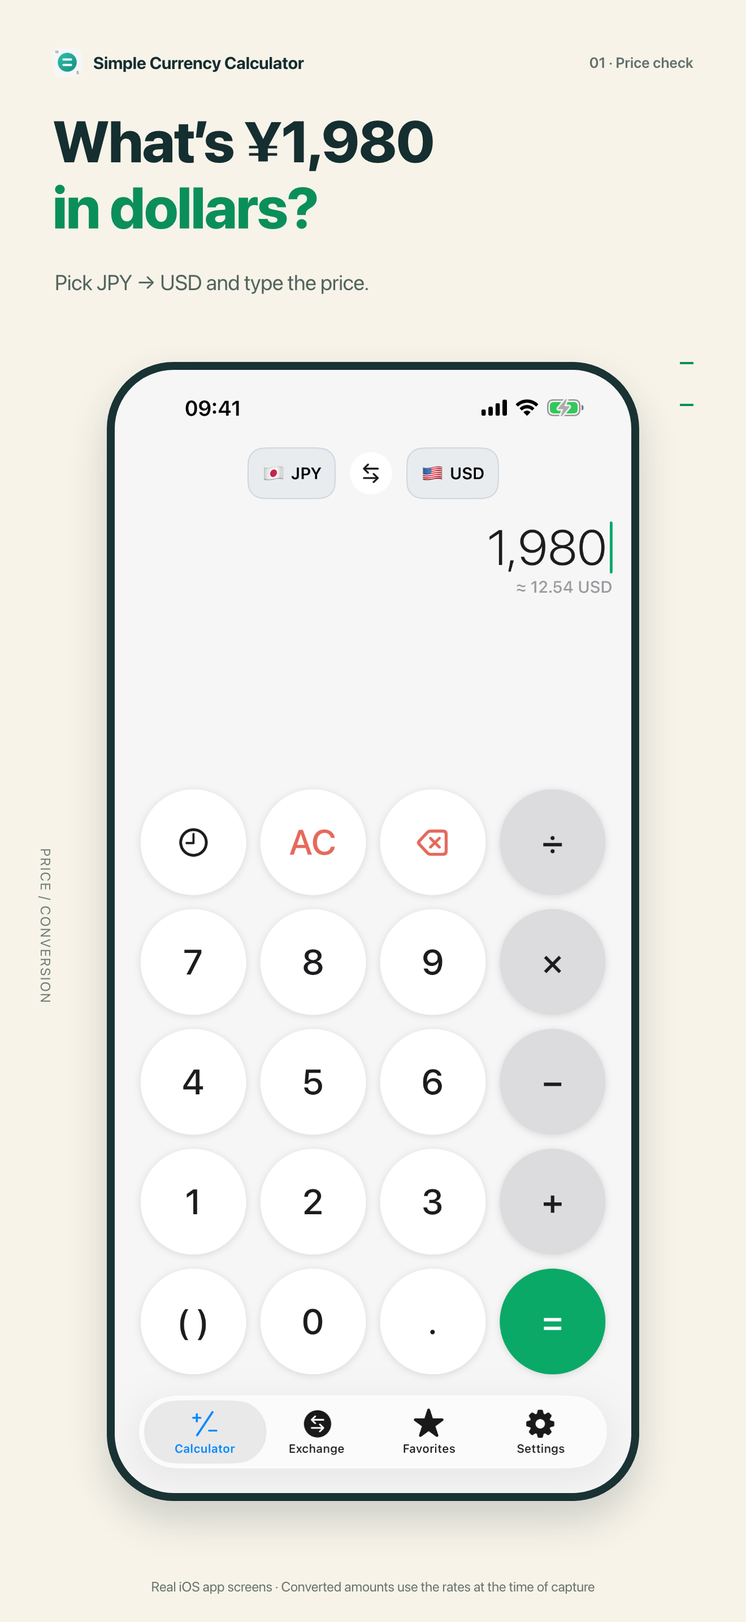
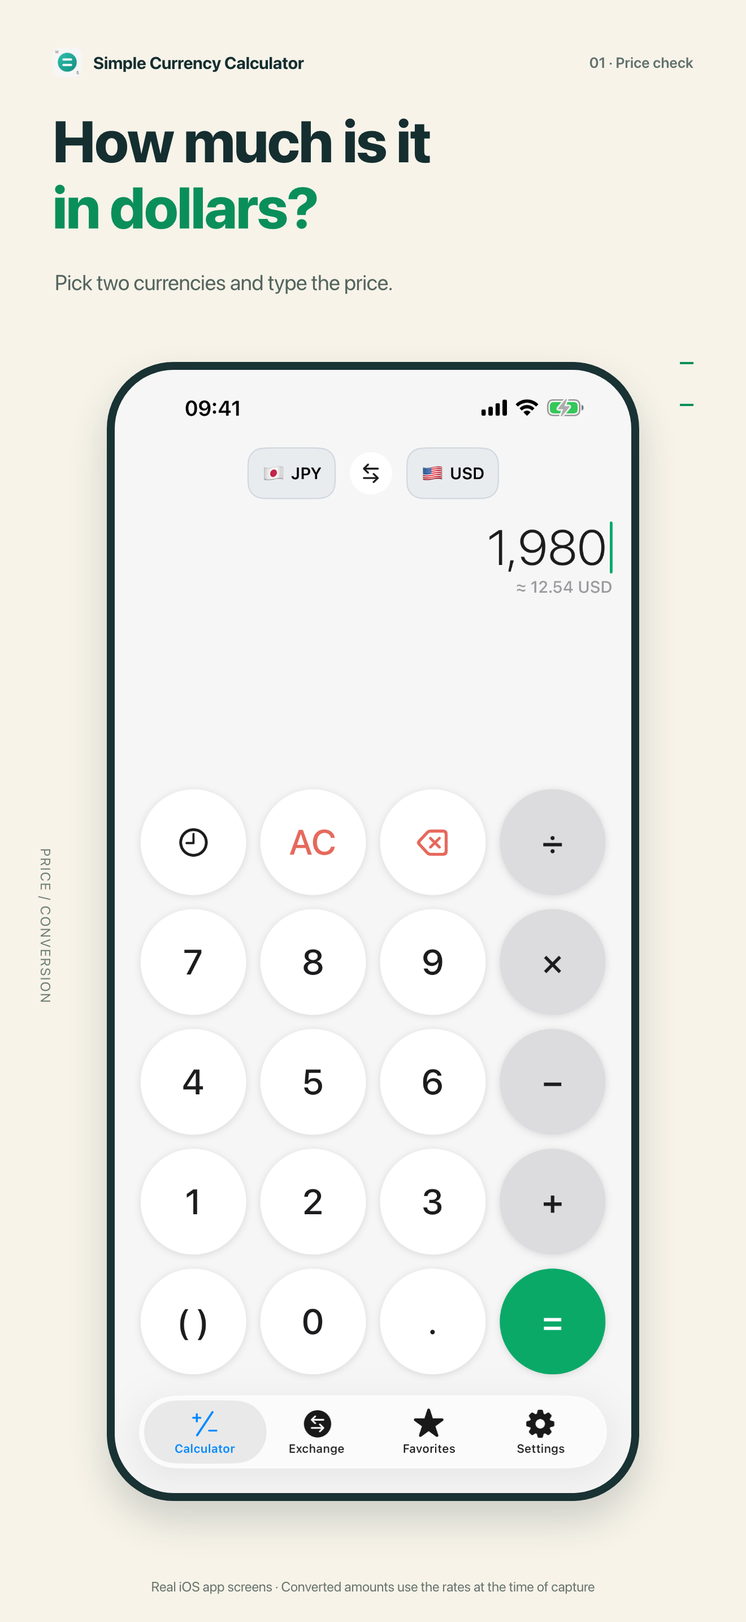
영어 Play 여행 세트를 만들고 스토어 문구에서 엔화·할인 강조를 뺀다
- 영어 Play용 여행 세트(travel-en-20261029)를 만든다. 01~03은 Note20에서 앱 언어만
  영어로 바꿔 JPY→USD로 새로 찍었고, en/05-offline은 04-offline으로 옮긴다.
- 영어 01 제목을 "What's ¥1,980 in dollars?"에서 "How much is it in dollars?"로 바꿔
  일본 여행 앱처럼 보이지 않게 한다(Play·App Store iPhone·iPad).
- 할인 계산 기능이 따로 있는 것처럼 읽히는 02 문구를 "환산되는 계산기"로 바꾼다
  (한국어·영어, Play·App Store). 등록 문구·피처 그래픽·소개 문구의 할인 예시도
  계산식 예시로 바꾼다.
- App Store 등록 문구에 남아 있던 조건 없는 오프라인 표현을 Play와 같이
  "환율을 한 번 받아 두면"으로 고치고, 기준일 표시 범위를 실제 화면으로 좁힌다.

Changed region(s): [[0.0621, 0.0621, 0.5902, 0.1241], [0.1242, 0.1552, 0.497, 0.1862]]

diff --git a/store-assets/travel-ko-20261022/02-shopping-discount.html b/store-assets/travel-ko-20261022/02-shopping-discount.html
@@ -1,1 +1,1 @@
-<!DOCTYPE html><html lang="ko"><meta charset="utf-8"><title>심플 환율 계산기 · 02 · 여행 쇼핑</title><style>*{box-sizing:border-box}html,body{margin:0;padding:0}body{font-family:"Apple SD Gothic Neo","Arial",sans-serif;color:#152e30;background:#f7f3e9;-webkit-font-smoothing:antialiased}.artboard{position:relative;width:1080px;height:1920px;overflow:hidden;background:#f7f3e9}.brand{position:absolute;left:76px;top:60px;display:flex;align-items:center;gap:16px;font-size:24px;font-weight:700;letter-spacing:-.4px}.brand img{width:42px;height:42px;object-fit:contain;border-radius:10px}.episode{position:absolute;right:76px;top:69px;font-size:21px;font-weight:600;color:#61706d}.headline{position:absolute;left:76px;top:145px;margin:0;font-size:88px;line-height:1.14;letter-spacing:-4.2px;font-weight:800}.headline em{font-style:normal;color:#d85525}.subhead{position:absolute;left:80px;right:65px;top:366px;font-size:30px;line-height:1.5;letter-spacing:-.6px;color:#53645e;margin:0}.phone{position:absolute;top:484px;left:226px;width:628px;padding:10px;background:#193233;border-radius:43px;box-shadow:0 28px 56px rgba(21,46,48,.18)}.phone img{display:block;width:608px;height:auto;border-radius:33px}.footer{position:absolute;left:0;right:0;bottom:22px;text-align:center;font-size:19px;color:#68746d;letter-spacing:-.2px}.note{position:absolute;left:65px;top:928px;writing-mode:vertical-rl;letter-spacing:2.4px;font-size:20px;color:#6f7e75}.note span{color:#d85525;font-weight:800}.index-mark{position:absolute;right:76px;top:484px;width:20px;height:64px;border-top:3px solid #d85525;border-bottom:3px solid #d85525}.feature{position:relative;width:1024px;height:500px;overflow:hidden;background:#f7f3e9}.feature .brand{top:43px;left:53px;font-size:21px}.feature .brand img{width:35px;height:35px}.feature h1{position:absolute;top:135px;left:53px;font-size:60px;line-height:1.18;letter-spacing:-3px;margin:0;font-weight:800}.feature h1 em{font-style:normal;color:#d85525}.feature p{position:absolute;left:57px;top:305px;font-size:24px;letter-spacing:-.5px;color:#53645e;line-height:1.5}.feature-phone{position:absolute;width:277px;padding:7px;background:#193233;top:38px;right:64px;border-radius:29px;transform:rotate(5deg);box-shadow:0 20px 35px #19323320}.feature-phone img{width:263px;display:block;border-radius:22px}.feature .mini{position:absolute;bottom:27px;left:57px;font-size:17px;color:#68746d}</style><main class="artboard"><div class="brand"><img src="app-icon.png" alt="">심플 환율 계산기</div><div class="episode">02 · 여행 쇼핑</div><h1 class="headline">합계도, 할인도.<br><em>계산하면서 환산.</em></h1><p class="subhead">두 물건에 20% 할인: (1,980 + 2,480) × 0.8</p><div class="note">SHOPPING / CALCULATION</div><div class="index-mark"></div><div class="phone"><img src="raw/02-discount-result.png" alt="실제 Android 앱 화면"></div><div class="footer">실제 Android 앱 화면 · 환산 금액은 촬영 당시 환율 기준</div></main></html>
+<!DOCTYPE html><html lang="ko"><meta charset="utf-8"><title>심플 환율 계산기 · 02 · 계산기</title><style>*{box-sizing:border-box}html,body{margin:0;padding:0}body{font-family:"Apple SD Gothic Neo","Arial",sans-serif;color:#152e30;background:#f7f3e9;-webkit-font-smoothing:antialiased}.artboard{position:relative;width:1080px;height:1920px;overflow:hidden;background:#f7f3e9}.brand{position:absolute;left:76px;top:60px;display:flex;align-items:center;gap:16px;font-size:24px;font-weight:700;letter-spacing:-.4px}.brand img{width:42px;height:42px;object-fit:contain;border-radius:10px}.episode{position:absolute;right:76px;top:69px;font-size:21px;font-weight:600;color:#61706d}.headline{position:absolute;left:76px;top:145px;margin:0;font-size:88px;line-height:1.14;letter-spacing:-4.2px;font-weight:800}.headline em{font-style:normal;color:#d85525}.subhead{position:absolute;left:80px;right:65px;top:366px;font-size:30px;line-height:1.5;letter-spacing:-.6px;color:#53645e;margin:0}.phone{position:absolute;top:484px;left:226px;width:628px;padding:10px;background:#193233;border-radius:43px;box-shadow:0 28px 56px rgba(21,46,48,.18)}.phone img{display:block;width:608px;height:auto;border-radius:33px}.footer{position:absolute;left:0;right:0;bottom:22px;text-align:center;font-size:19px;color:#68746d;letter-spacing:-.2px}.note{position:absolute;left:65px;top:928px;writing-mode:vertical-rl;letter-spacing:2.4px;font-size:20px;color:#6f7e75}.note span{color:#d85525;font-weight:800}.index-mark{position:absolute;right:76px;top:484px;width:20px;height:64px;border-top:3px solid #d85525;border-bottom:3px solid #d85525}.feature{position:relative;width:1024px;height:500px;overflow:hidden;background:#f7f3e9}.feature .brand{top:43px;left:53px;font-size:21px}.feature .brand img{width:35px;height:35px}.feature h1{position:absolute;top:135px;left:53px;font-size:60px;line-height:1.18;letter-spacing:-3px;margin:0;font-weight:800}.feature h1 em{font-style:normal;color:#d85525}.feature p{position:absolute;left:57px;top:305px;font-size:24px;letter-spacing:-.5px;color:#53645e;line-height:1.5}.feature-phone{position:absolute;width:277px;padding:7px;background:#193233;top:38px;right:64px;border-radius:29px;transform:rotate(5deg);box-shadow:0 20px 35px #19323320}.feature-phone img{width:263px;display:block;border-radius:22px}.feature .mini{position:absolute;bottom:27px;left:57px;font-size:17px;color:#68746d}</style><main class="artboard"><div class="brand"><img src="app-icon.png" alt="">심플 환율 계산기</div><div class="episode">02 · 계산기</div><h1 class="headline">계산하는 대로,<br><em>바로 환산.</em></h1><p class="subhead">어떤 계산식이든 결과를 다른 통화로 함께 보여 줘요.</p><div class="note">CALCULATOR / CONVERSION</div><div class="index-mark"></div><div class="phone"><img src="raw/02-discount-result.png" alt="실제 Android 앱 화면"></div><div class="footer">실제 Android 앱 화면 · 환산 금액은 촬영 당시 환율 기준</div></main></html>

diff --git a/store-assets/travel-ko-20261022/feature-graphic-ko.html b/store-assets/travel-ko-20261022/feature-graphic-ko.html
@@ -1,1 +1,1 @@
-<!DOCTYPE html><html lang="ko"><meta charset="utf-8"><title>심플 환율 계산기 · 여행</title><style>*{box-sizing:border-box}html,body{margin:0;padding:0}body{font-family:"Apple SD Gothic Neo","Arial",sans-serif;color:#152e30;background:#f7f3e9;-webkit-font-smoothing:antialiased}.artboard{position:relative;width:1080px;height:1920px;overflow:hidden;background:#f7f3e9}.brand{position:absolute;left:76px;top:60px;display:flex;align-items:center;gap:16px;font-size:24px;font-weight:700;letter-spacing:-.4px}.brand img{width:42px;height:42px;object-fit:contain;border-radius:10px}.episode{position:absolute;right:76px;top:69px;font-size:21px;font-weight:600;color:#61706d}.headline{position:absolute;left:76px;top:145px;margin:0;font-size:88px;line-height:1.14;letter-spacing:-4.2px;font-weight:800}.headline em{font-style:normal;color:#d85525}.subhead{position:absolute;left:80px;right:65px;top:366px;font-size:30px;line-height:1.5;letter-spacing:-.6px;color:#53645e;margin:0}.phone{position:absolute;top:484px;left:226px;width:628px;padding:10px;background:#193233;border-radius:43px;box-shadow:0 28px 56px rgba(21,46,48,.18)}.phone img{display:block;width:608px;height:auto;border-radius:33px}.footer{position:absolute;left:0;right:0;bottom:22px;text-align:center;font-size:19px;color:#68746d;letter-spacing:-.2px}.note{position:absolute;left:65px;top:928px;writing-mode:vertical-rl;letter-spacing:2.4px;font-size:20px;color:#6f7e75}.note span{color:#d85525;font-weight:800}.index-mark{position:absolute;right:76px;top:484px;width:20px;height:64px;border-top:3px solid #d85525;border-bottom:3px solid #d85525}.feature{position:relative;width:1024px;height:500px;overflow:hidden;background:#f7f3e9}.feature .brand{top:43px;left:53px;font-size:21px}.feature .brand img{width:35px;height:35px}.feature h1{position:absolute;top:135px;left:53px;font-size:60px;line-height:1.18;letter-spacing:-3px;margin:0;font-weight:800}.feature h1 em{font-style:normal;color:#d85525}.feature p{position:absolute;left:57px;top:305px;font-size:24px;letter-spacing:-.5px;color:#53645e;line-height:1.5}.feature-phone{position:absolute;width:277px;padding:7px;background:#193233;top:38px;right:64px;border-radius:29px;transform:rotate(5deg);box-shadow:0 20px 35px #19323320}.feature-phone img{width:263px;display:block;border-radius:22px}.feature .mini{position:absolute;bottom:27px;left:57px;font-size:17px;color:#68746d}</style><main class="feature"><div class="brand"><img src="app-icon.png" alt="">심플 환율 계산기</div><h1>여행지 가격,<br><em>계산하면서 원화로.</em></h1><p>물건값을 더하고 할인까지.<br>환산 금액도 함께 확인하세요.</p><div class="feature-phone"><img src="raw/01-price.png" alt="실제 Android 앱 화면"></div><div class="mini">JPY · USD · EUR 등 160여 개 통화 지원</div></main></html>
+<!DOCTYPE html><html lang="ko"><meta charset="utf-8"><title>심플 환율 계산기 · 여행</title><style>*{box-sizing:border-box}html,body{margin:0;padding:0}body{font-family:"Apple SD Gothic Neo","Arial",sans-serif;color:#152e30;background:#f7f3e9;-webkit-font-smoothing:antialiased}.artboard{position:relative;width:1080px;height:1920px;overflow:hidden;background:#f7f3e9}.brand{position:absolute;left:76px;top:60px;display:flex;align-items:center;gap:16px;font-size:24px;font-weight:700;letter-spacing:-.4px}.brand img{width:42px;height:42px;object-fit:contain;border-radius:10px}.episode{position:absolute;right:76px;top:69px;font-size:21px;font-weight:600;color:#61706d}.headline{position:absolute;left:76px;top:145px;margin:0;font-size:88px;line-height:1.14;letter-spacing:-4.2px;font-weight:800}.headline em{font-style:normal;color:#d85525}.subhead{position:absolute;left:80px;right:65px;top:366px;font-size:30px;line-height:1.5;letter-spacing:-.6px;color:#53645e;margin:0}.phone{position:absolute;top:484px;left:226px;width:628px;padding:10px;background:#193233;border-radius:43px;box-shadow:0 28px 56px rgba(21,46,48,.18)}.phone img{display:block;width:608px;height:auto;border-radius:33px}.footer{position:absolute;left:0;right:0;bottom:22px;text-align:center;font-size:19px;color:#68746d;letter-spacing:-.2px}.note{position:absolute;left:65px;top:928px;writing-mode:vertical-rl;letter-spacing:2.4px;font-size:20px;color:#6f7e75}.note span{color:#d85525;font-weight:800}.index-mark{position:absolute;right:76px;top:484px;width:20px;height:64px;border-top:3px solid #d85525;border-bottom:3px solid #d85525}.feature{position:relative;width:1024px;height:500px;overflow:hidden;background:#f7f3e9}.feature .brand{top:43px;left:53px;font-size:21px}.feature .brand img{width:35px;height:35px}.feature h1{position:absolute;top:135px;left:53px;font-size:60px;line-height:1.18;letter-spacing:-3px;margin:0;font-weight:800}.feature h1 em{font-style:normal;color:#d85525}.feature p{position:absolute;left:57px;top:305px;font-size:24px;letter-spacing:-.5px;color:#53645e;line-height:1.5}.feature-phone{position:absolute;width:277px;padding:7px;background:#193233;top:38px;right:64px;border-radius:29px;transform:rotate(5deg);box-shadow:0 20px 35px #19323320}.feature-phone img{width:263px;display:block;border-radius:22px}.feature .mini{position:absolute;bottom:27px;left:57px;font-size:17px;color:#68746d}</style><main class="feature"><div class="brand"><img src="app-icon.png" alt="">심플 환율 계산기</div><h1>여행지 가격,<br><em>계산하면서 원화로.</em></h1><p>물건값을 계산하면<br>환산 금액도 함께 확인할 수 있어요.</p><div class="feature-phone"><img src="raw/01-price.png" alt="실제 Android 앱 화면"></div><div class="mini">JPY · USD · EUR 등 160여 개 통화 지원</div></main></html>

diff --git a/store-assets/travel-en-20261029/04-offline.html b/store-assets/travel-en-20261029/04-offline.html
@@ -1,0 +1,1 @@
+<!DOCTYPE html><html lang="en"><meta charset="utf-8"><title>Simple Currency Calculator · 04 · Offline</title><style>*{box-sizing:border-box}html,body{margin:0;padding:0}body{font-family:system-ui,"Helvetica Neue",Arial,sans-serif;color:#152e30;background:#f7f3e9;-webkit-font-smoothing:antialiased}.artboard{position:relative;width:1080px;height:1920px;overflow:hidden;background:#f7f3e9}.brand{position:absolute;left:76px;top:60px;display:flex;align-items:center;gap:16px;font-size:24px;font-weight:700;letter-spacing:-.4px}.brand img{width:42px;height:42px;object-fit:contain;border-radius:10px}.episode{position:absolute;right:76px;top:69px;font-size:21px;font-weight:600;color:#61706d}.headline{position:absolute;left:76px;top:145px;margin:0;font-size:84px;line-height:1.14;letter-spacing:-1.8px;font-weight:800}.headline em{font-style:normal;color:#d85525}.subhead{position:absolute;left:80px;right:65px;top:366px;font-size:30px;line-height:1.5;letter-spacing:-.6px;color:#53645e;margin:0}.phone{position:absolute;top:484px;left:226px;width:628px;padding:10px;background:#193233;border-radius:43px;box-shadow:0 28px 56px rgba(21,46,48,.18)}.phone img{display:block;width:608px;height:auto;border-radius:33px}.footer{position:absolute;left:0;right:0;bottom:22px;text-align:center;font-size:19px;color:#68746d;letter-spacing:-.2px}.note{position:absolute;left:65px;top:928px;writing-mode:vertical-rl;letter-spacing:2.4px;font-size:20px;color:#6f7e75}.note span{color:#d85525;font-weight:800}.index-mark{position:absolute;right:76px;top:484px;width:20px;height:64px;border-top:3px solid #d85525;border-bottom:3px solid #d85525}.feature{position:relative;width:1024px;height:500px;overflow:hidden;background:#f7f3e9}.feature .brand{top:43px;left:53px;font-size:21px}.feature .brand img{width:35px;height:35px}.feature h1{position:absolute;top:135px;left:53px;font-size:60px;line-height:1.18;letter-spacing:-3px;margin:0;font-weight:800}.feature h1 em{font-style:normal;color:#d85525}.feature p{position:absolute;left:57px;top:305px;font-size:24px;letter-spacing:-.5px;color:#53645e;line-height:1.5}.feature-phone{position:absolute;width:277px;padding:7px;background:#193233;top:38px;right:64px;border-radius:29px;transform:rotate(5deg);box-shadow:0 20px 35px #19323320}.feature-phone img{width:263px;display:block;border-radius:22px}.feature .mini{position:absolute;bottom:27px;left:57px;font-size:17px;color:#68746d}.airplane{position:absolute;right:226px;top:420px;display:flex;align-items:center;gap:10px;height:48px;padding:0 22px 0 18px;border-radius:24px;background:#d85525;color:#fff;font-size:24px;font-weight:700;letter-spacing:-.4px;box-shadow:0 8px 18px rgba(216,85,37,.25)}.airplane svg{width:26px;height:26px;fill:#fff}.airplane-line{position:absolute;left:728px;top:468px;width:3px;height:39px;background:#d85525}.airplane-ring{position:absolute;left:712px;top:507px;width:34px;height:34px;border:3px solid #d85525;border-radius:50%}</style><main class="artboard"><div class="brand"><img src="app-icon.png" alt="">Simple Currency Calculator</div><div class="episode">04 · Offline</div><h1 class="headline">Airplane mode?<br><em>Still converts.</em></h1><p class="subhead">Open it once before you fly, then convert offline.</p><div class="note">OFFLINE / SAVED RATES</div><div class="index-mark"></div><div class="phone"><img src="raw/04-offline.png" alt="Real Android app screen"></div><div class="airplane"><svg viewBox="0 0 24 24" aria-hidden="true"><path d="M21 16v-2l-8-5V3.5c0-.83-.67-1.5-1.5-1.5S10 2.67 10 3.5V9l-8 5v2l8-2.5V19l-2 1.5V22l3.5-1 3.5 1v-1.5L13 19v-5.5l8 2.5z"/></svg>Airplane mode</div><div class="airplane-line"></div><div class="airplane-ring"></div><div class="footer">Real Android app screen · Captured in airplane mode · Uses the last downloaded rates</div></main></html>

diff --git a/store-assets/travel-ko-20261022/preview.html b/store-assets/travel-ko-20261022/preview.html
@@ -1,1 +1,1 @@
-<!DOCTYPE html><html lang="ko"><meta charset="utf-8"><title>심플 환율 계산기 · 여행 스토어 시안</title><style>*{box-sizing:border-box}body{margin:0;background:#e9e6dc;color:#173134;font-family:"Apple SD Gothic Neo",sans-serif;padding:30px}header{max-width:1300px;margin:0 auto 22px;display:flex;justify-content:space-between;align-items:end}h1{font-size:29px;letter-spacing:-1px;margin:0}p{font-size:15px;color:#61706d;margin:8px 0 0}.grid{display:grid;grid-template-columns:repeat(4,minmax(0,1fr));gap:22px;max-width:1300px;margin:auto}.grid img{width:100%;display:block;box-shadow:0 6px 20px #17313417}a{color:inherit}.foot{max-width:1300px;margin:24px auto 0;display:flex;gap:24px}footer{max-width:1300px;margin:20px auto;color:#61706d;font-size:14px}</style><header><div><h1>여행지 가격, 계산하면서 원화로.</h1><p>심플 환율 계산기 · 한국어 Google Play 스토어용 · 실제 Android 화면</p></div><span>여행·쇼핑 / 4장</span></header><main class="grid"><a href="01-price-conversion.png"><img src="01-price-conversion.png" alt="01 · 가격 확인"></a><a href="02-shopping-discount.png"><img src="02-shopping-discount.png" alt="02 · 여행 쇼핑"></a><a href="03-currency-search.png"><img src="03-currency-search.png" alt="03 · 통화 검색"></a><a href="04-offline.png"><img src="04-offline.png" alt="04 · 오프라인"></a></main><div class="foot"><a href="listing-ko-KR.txt">스토어 소개 문구</a><a href="launch-copy-ko.txt">영상·커뮤니티 소개 문구</a><a href="feature-graphic-ko.png">피처 그래픽</a></div><footer>환산 금액은 촬영 당시의 저장 환율 기준입니다. 스토어 등록 및 외부 게시 전 검토용입니다.</footer></html>
+<!DOCTYPE html><html lang="ko"><meta charset="utf-8"><title>심플 환율 계산기 · 여행 스토어 시안</title><style>*{box-sizing:border-box}body{margin:0;background:#e9e6dc;color:#173134;font-family:"Apple SD Gothic Neo",sans-serif;padding:30px}header{max-width:1300px;margin:0 auto 22px;display:flex;justify-content:space-between;align-items:end}h1{font-size:29px;letter-spacing:-1px;margin:0}p{font-size:15px;color:#61706d;margin:8px 0 0}.grid{display:grid;grid-template-columns:repeat(4,minmax(0,1fr));gap:22px;max-width:1300px;margin:auto}.grid img{width:100%;display:block;box-shadow:0 6px 20px #17313417}a{color:inherit}.foot{max-width:1300px;margin:24px auto 0;display:flex;gap:24px}footer{max-width:1300px;margin:20px auto;color:#61706d;font-size:14px}</style><header><div><h1>여행지 가격, 계산하면서 원화로.</h1><p>심플 환율 계산기 · 한국어 Google Play 스토어용 · 실제 Android 화면</p></div><span>여행·쇼핑 / 4장</span></header><main class="grid"><a href="01-price-conversion.png"><img src="01-price-conversion.png" alt="01 · 가격 확인"></a><a href="02-shopping-discount.png"><img src="02-shopping-discount.png" alt="02 · 계산기"></a><a href="03-currency-search.png"><img src="03-currency-search.png" alt="03 · 통화 검색"></a><a href="04-offline.png"><img src="04-offline.png" alt="04 · 오프라인"></a></main><div class="foot"><a href="listing-ko-KR.txt">스토어 소개 문구</a><a href="launch-copy-ko.txt">영상·커뮤니티 소개 문구</a><a href="feature-graphic-ko.png">피처 그래픽</a></div><footer>환산 금액은 촬영 당시의 저장 환율 기준입니다. 스토어 등록 및 외부 게시 전 검토용입니다.</footer></html>

diff --git a/store-assets/travel-en-20261029/02-shopping-discount.html b/store-assets/travel-en-20261029/02-shopping-discount.html
@@ -1,0 +1,1 @@
+<!DOCTYPE html><html lang="en"><meta charset="utf-8"><title>Simple Currency Calculator · 02 · Calculator</title><style>*{box-sizing:border-box}html,body{margin:0;padding:0}body{font-family:system-ui,"Helvetica Neue",Arial,sans-serif;color:#152e30;background:#f7f3e9;-webkit-font-smoothing:antialiased}.artboard{position:relative;width:1080px;height:1920px;overflow:hidden;background:#f7f3e9}.brand{position:absolute;left:76px;top:60px;display:flex;align-items:center;gap:16px;font-size:24px;font-weight:700;letter-spacing:-.4px}.brand img{width:42px;height:42px;object-fit:contain;border-radius:10px}.episode{position:absolute;right:76px;top:69px;font-size:21px;font-weight:600;color:#61706d}.headline{position:absolute;left:76px;top:145px;margin:0;font-size:84px;line-height:1.14;letter-spacing:-1.8px;font-weight:800}.headline em{font-style:normal;color:#d85525}.subhead{position:absolute;left:80px;right:65px;top:366px;font-size:30px;line-height:1.5;letter-spacing:-.6px;color:#53645e;margin:0}.phone{position:absolute;top:484px;left:226px;width:628px;padding:10px;background:#193233;border-radius:43px;box-shadow:0 28px 56px rgba(21,46,48,.18)}.phone img{display:block;width:608px;height:auto;border-radius:33px}.footer{position:absolute;left:0;right:0;bottom:22px;text-align:center;font-size:19px;color:#68746d;letter-spacing:-.2px}.note{position:absolute;left:65px;top:928px;writing-mode:vertical-rl;letter-spacing:2.4px;font-size:20px;color:#6f7e75}.note span{color:#d85525;font-weight:800}.index-mark{position:absolute;right:76px;top:484px;width:20px;height:64px;border-top:3px solid #d85525;border-bottom:3px solid #d85525}.feature{position:relative;width:1024px;height:500px;overflow:hidden;background:#f7f3e9}.feature .brand{top:43px;left:53px;font-size:21px}.feature .brand img{width:35px;height:35px}.feature h1{position:absolute;top:135px;left:53px;font-size:60px;line-height:1.18;letter-spacing:-3px;margin:0;font-weight:800}.feature h1 em{font-style:normal;color:#d85525}.feature p{position:absolute;left:57px;top:305px;font-size:24px;letter-spacing:-.5px;color:#53645e;line-height:1.5}.feature-phone{position:absolute;width:277px;padding:7px;background:#193233;top:38px;right:64px;border-radius:29px;transform:rotate(5deg);box-shadow:0 20px 35px #19323320}.feature-phone img{width:263px;display:block;border-radius:22px}.feature .mini{position:absolute;bottom:27px;left:57px;font-size:17px;color:#68746d}</style><main class="artboard"><div class="brand"><img src="app-icon.png" alt="">Simple Currency Calculator</div><div class="episode">02 · Calculator</div><h1 class="headline">A calculator<br><em>that converts.</em></h1><p class="subhead">Type any calculation and see it in another currency.</p><div class="note">CALCULATOR / CONVERSION</div><div class="index-mark"></div><div class="phone"><img src="raw/02-discount-result.png" alt="Real Android app screen"></div><div class="footer">Real Android app screen · Converted amounts use the rates at the time of capture</div></main></html>

diff --git a/store-assets/travel-en-20261029/03-currency-search.html b/store-assets/travel-en-20261029/03-currency-search.html
@@ -1,0 +1,1 @@
+<!DOCTYPE html><html lang="en"><meta charset="utf-8"><title>Simple Currency Calculator · 03 · Search</title><style>*{box-sizing:border-box}html,body{margin:0;padding:0}body{font-family:system-ui,"Helvetica Neue",Arial,sans-serif;color:#152e30;background:#f7f3e9;-webkit-font-smoothing:antialiased}.artboard{position:relative;width:1080px;height:1920px;overflow:hidden;background:#f7f3e9}.brand{position:absolute;left:76px;top:60px;display:flex;align-items:center;gap:16px;font-size:24px;font-weight:700;letter-spacing:-.4px}.brand img{width:42px;height:42px;object-fit:contain;border-radius:10px}.episode{position:absolute;right:76px;top:69px;font-size:21px;font-weight:600;color:#61706d}.headline{position:absolute;left:76px;top:145px;margin:0;font-size:84px;line-height:1.14;letter-spacing:-1.8px;font-weight:800}.headline em{font-style:normal;color:#d85525}.subhead{position:absolute;left:80px;right:65px;top:366px;font-size:30px;line-height:1.5;letter-spacing:-.6px;color:#53645e;margin:0}.phone{position:absolute;top:484px;left:226px;width:628px;padding:10px;background:#193233;border-radius:43px;box-shadow:0 28px 56px rgba(21,46,48,.18)}.phone img{display:block;width:608px;height:auto;border-radius:33px}.footer{position:absolute;left:0;right:0;bottom:22px;text-align:center;font-size:19px;color:#68746d;letter-spacing:-.2px}.note{position:absolute;left:65px;top:928px;writing-mode:vertical-rl;letter-spacing:2.4px;font-size:20px;color:#6f7e75}.note span{color:#d85525;font-weight:800}.index-mark{position:absolute;right:76px;top:484px;width:20px;height:64px;border-top:3px solid #d85525;border-bottom:3px solid #d85525}.feature{position:relative;width:1024px;height:500px;overflow:hidden;background:#f7f3e9}.feature .brand{top:43px;left:53px;font-size:21px}.feature .brand img{width:35px;height:35px}.feature h1{position:absolute;top:135px;left:53px;font-size:60px;line-height:1.18;letter-spacing:-3px;margin:0;font-weight:800}.feature h1 em{font-style:normal;color:#d85525}.feature p{position:absolute;left:57px;top:305px;font-size:24px;letter-spacing:-.5px;color:#53645e;line-height:1.5}.feature-phone{position:absolute;width:277px;padding:7px;background:#193233;top:38px;right:64px;border-radius:29px;transform:rotate(5deg);box-shadow:0 20px 35px #19323320}.feature-phone img{width:263px;display:block;border-radius:22px}.feature .mini{position:absolute;bottom:27px;left:57px;font-size:17px;color:#68746d}</style><main class="artboard"><div class="brand"><img src="app-icon.png" alt="">Simple Currency Calculator</div><div class="episode">03 · Search</div><h1 class="headline">Find any currency<br><em>by name or code.</em></h1><p class="subhead">Search by country, currency name, or code.</p><div class="note">SEARCH / CURRENCY</div><div class="index-mark"></div><div class="phone"><img src="raw/03-currency-search-list.png" alt="Real Android app screen"></div><div class="footer">Real Android app screen · Converted amounts use the rates at the time of capture</div></main></html>

diff --git a/store-assets/travel-en-20261029/01-price-conversion.html b/store-assets/travel-en-20261029/01-price-conversion.html
@@ -1,0 +1,1 @@
+<!DOCTYPE html><html lang="en"><meta charset="utf-8"><title>Simple Currency Calculator · 01 · Price check</title><style>*{box-sizing:border-box}html,body{margin:0;padding:0}body{font-family:system-ui,"Helvetica Neue",Arial,sans-serif;color:#152e30;background:#f7f3e9;-webkit-font-smoothing:antialiased}.artboard{position:relative;width:1080px;height:1920px;overflow:hidden;background:#f7f3e9}.brand{position:absolute;left:76px;top:60px;display:flex;align-items:center;gap:16px;font-size:24px;font-weight:700;letter-spacing:-.4px}.brand img{width:42px;height:42px;object-fit:contain;border-radius:10px}.episode{position:absolute;right:76px;top:69px;font-size:21px;font-weight:600;color:#61706d}.headline{position:absolute;left:76px;top:145px;margin:0;font-size:84px;line-height:1.14;letter-spacing:-1.8px;font-weight:800}.headline em{font-style:normal;color:#d85525}.subhead{position:absolute;left:80px;right:65px;top:366px;font-size:30px;line-height:1.5;letter-spacing:-.6px;color:#53645e;margin:0}.phone{position:absolute;top:484px;left:226px;width:628px;padding:10px;background:#193233;border-radius:43px;box-shadow:0 28px 56px rgba(21,46,48,.18)}.phone img{display:block;width:608px;height:auto;border-radius:33px}.footer{position:absolute;left:0;right:0;bottom:22px;text-align:center;font-size:19px;color:#68746d;letter-spacing:-.2px}.note{position:absolute;left:65px;top:928px;writing-mode:vertical-rl;letter-spacing:2.4px;font-size:20px;color:#6f7e75}.note span{color:#d85525;font-weight:800}.index-mark{position:absolute;right:76px;top:484px;width:20px;height:64px;border-top:3px solid #d85525;border-bottom:3px solid #d85525}.feature{position:relative;width:1024px;height:500px;overflow:hidden;background:#f7f3e9}.feature .brand{top:43px;left:53px;font-size:21px}.feature .brand img{width:35px;height:35px}.feature h1{position:absolute;top:135px;left:53px;font-size:60px;line-height:1.18;letter-spacing:-3px;margin:0;font-weight:800}.feature h1 em{font-style:normal;color:#d85525}.feature p{position:absolute;left:57px;top:305px;font-size:24px;letter-spacing:-.5px;color:#53645e;line-height:1.5}.feature-phone{position:absolute;width:277px;padding:7px;background:#193233;top:38px;right:64px;border-radius:29px;transform:rotate(5deg);box-shadow:0 20px 35px #19323320}.feature-phone img{width:263px;display:block;border-radius:22px}.feature .mini{position:absolute;bottom:27px;left:57px;font-size:17px;color:#68746d}</style><main class="artboard"><div class="brand"><img src="app-icon.png" alt="">Simple Currency Calculator</div><div class="episode">01 · Price check</div><h1 class="headline">How much is it<br><em>in dollars?</em></h1><p class="subhead">Pick two currencies and type the price.</p><div class="note">PRICE / CONVERSION</div><div class="index-mark"></div><div class="phone"><img src="raw/01-price.png" alt="Real Android app screen"></div><div class="footer">Real Android app screen · Converted amounts use the rates at the time of capture</div></main></html>

diff --git a/store-assets/app-store-ko/preview.html b/store-assets/app-store-ko/preview.html
@@ -1,5 +1,5 @@
 <!DOCTYPE html><html lang="ko"><meta charset="utf-8"><title>심플 환율 계산기 · App Store 스크린샷</title><style>*{box-sizing:border-box}body{margin:0;background:#e9e6dc;color:#173134;font-family:"Apple SD Gothic Neo",sans-serif;padding:30px}header{max-width:1360px;margin:0 auto 22px;display:flex;justify-content:space-between;align-items:end}h1{font-size:29px;letter-spacing:-1px;margin:0}h2{max-width:1360px;margin:26px auto 12px;font-size:18px;color:#61706d;font-weight:600}p{font-size:15px;color:#61706d;margin:8px 0 0}.grid{display:grid;grid-template-columns:repeat(3,minmax(0,1fr));gap:22px;max-width:1360px;margin:auto}.grid4{grid-template-columns:repeat(4,minmax(0,1fr))}.grid img{width:100%;display:block;box-shadow:0 6px 20px #17313417}footer{max-width:1360px;margin:24px auto 0;color:#61706d;font-size:14px}</style>
 <header><div><h1>여행지 가격, 계산하면서 원화로.</h1><p>심플 환율 계산기 · 한국어 App Store용 · 실제 iOS 화면</p></div><span>iPhone 4장 · iPad 4장</span></header>
-<h2>iPhone 6.9형 · 1320 × 2868</h2><main class="grid grid4"><a href="iphone-01.png"><img src="iphone-01.png" alt="iPhone 01 · 가격 확인"></a><a href="iphone-02.png"><img src="iphone-02.png" alt="iPhone 02 · 여행 쇼핑"></a><a href="iphone-03.png"><img src="iphone-03.png" alt="iPhone 03 · 통화 검색"></a><a href="iphone-04.png"><img src="iphone-04.png" alt="iPhone 04 · 오프라인"></a></main>
-<h2>iPad 13형 · 2064 × 2752</h2><main class="grid grid4"><a href="ipad-01.png"><img src="ipad-01.png" alt="iPad 01 · 가격 확인"></a><a href="ipad-02.png"><img src="ipad-02.png" alt="iPad 02 · 여행 쇼핑"></a><a href="ipad-03.png"><img src="ipad-03.png" alt="iPad 03 · 통화 검색"></a><a href="ipad-04.png"><img src="ipad-04.png" alt="iPad 04 · 오프라인"></a></main>
+<h2>iPhone 6.9형 · 1320 × 2868</h2><main class="grid grid4"><a href="iphone-01.png"><img src="iphone-01.png" alt="iPhone 01 · 가격 확인"></a><a href="iphone-02.png"><img src="iphone-02.png" alt="iPhone 02 · 계산기"></a><a href="iphone-03.png"><img src="iphone-03.png" alt="iPhone 03 · 통화 검색"></a><a href="iphone-04.png"><img src="iphone-04.png" alt="iPhone 04 · 오프라인"></a></main>
+<h2>iPad 13형 · 2064 × 2752</h2><main class="grid grid4"><a href="ipad-01.png"><img src="ipad-01.png" alt="iPad 01 · 가격 확인"></a><a href="ipad-02.png"><img src="ipad-02.png" alt="iPad 02 · 계산기"></a><a href="ipad-03.png"><img src="ipad-03.png" alt="iPad 03 · 통화 검색"></a><a href="ipad-04.png"><img src="ipad-04.png" alt="iPad 04 · 오프라인"></a></main>
 <footer>환산 금액은 촬영 당시의 저장 환율 기준입니다. 문구는 Android 여행 세트(travel-ko-20261022)와 같습니다. 스토어 등록 전 검토용입니다.</footer></html>

diff --git a/store-assets/app-store-en/preview.html b/store-assets/app-store-en/preview.html
@@ -1,5 +1,5 @@
 <!DOCTYPE html><html lang="en"><meta charset="utf-8"><title>Simple Currency Calculator · App Store screenshots</title><style>*{box-sizing:border-box}body{margin:0;background:#e9e6dc;color:#173134;font-family:system-ui,"Helvetica Neue",sans-serif;padding:30px}header{max-width:1360px;margin:0 auto 22px;display:flex;justify-content:space-between;align-items:end}h1{font-size:29px;letter-spacing:-.4px;margin:0}h2{max-width:1360px;margin:26px auto 12px;font-size:18px;color:#61706d;font-weight:600}p{font-size:15px;color:#61706d;margin:8px 0 0}.grid{display:grid;grid-template-columns:repeat(3,minmax(0,1fr));gap:22px;max-width:1360px;margin:auto}.grid4{grid-template-columns:repeat(4,minmax(0,1fr))}.grid img{width:100%;display:block;box-shadow:0 6px 20px #17313417}footer{max-width:1360px;margin:24px auto 0;color:#61706d;font-size:14px}</style>
 <header><div><h1>Travel prices, converted as you calculate.</h1><p>Simple Currency Calculator · English (U.S.) App Store · Real iOS screens</p></div><span>4 iPhone · 4 iPad</span></header>
-<h2>iPhone 6.9" · 1320 × 2868</h2><main class="grid grid4"><a href="iphone-01.png"><img src="iphone-01.png" alt="iPhone 01 · Price check"></a><a href="iphone-02.png"><img src="iphone-02.png" alt="iPhone 02 · Shopping"></a><a href="iphone-03.png"><img src="iphone-03.png" alt="iPhone 03 · Search"></a><a href="iphone-04.png"><img src="iphone-04.png" alt="iPhone 04 · Offline"></a></main>
-<h2>iPad 13" · 2064 × 2752</h2><main class="grid grid4"><a href="ipad-01.png"><img src="ipad-01.png" alt="iPad 01 · Price check"></a><a href="ipad-02.png"><img src="ipad-02.png" alt="iPad 02 · Shopping"></a><a href="ipad-03.png"><img src="ipad-03.png" alt="iPad 03 · Search"></a><a href="ipad-04.png"><img src="ipad-04.png" alt="iPad 04 · Offline"></a></main>
+<h2>iPhone 6.9" · 1320 × 2868</h2><main class="grid grid4"><a href="iphone-01.png"><img src="iphone-01.png" alt="iPhone 01 · Price check"></a><a href="iphone-02.png"><img src="iphone-02.png" alt="iPhone 02 · Calculator"></a><a href="iphone-03.png"><img src="iphone-03.png" alt="iPhone 03 · Search"></a><a href="iphone-04.png"><img src="iphone-04.png" alt="iPhone 04 · Offline"></a></main>
+<h2>iPad 13" · 2064 × 2752</h2><main class="grid grid4"><a href="ipad-01.png"><img src="ipad-01.png" alt="iPad 01 · Price check"></a><a href="ipad-02.png"><img src="ipad-02.png" alt="iPad 02 · Calculator"></a><a href="ipad-03.png"><img src="ipad-03.png" alt="iPad 03 · Search"></a><a href="ipad-04.png"><img src="ipad-04.png" alt="iPad 04 · Offline"></a></main>
 <footer>Converted amounts use the saved rates at the time of capture. Same scenes as the Korean set (app-store-ko). For review before submitting to the store.</footer></html>

diff --git a/store-assets/app-store-ko/iphone-02.html b/store-assets/app-store-ko/iphone-02.html
@@ -1,4 +1,4 @@
-<!DOCTYPE html><html lang="ko"><meta charset="utf-8"><title>심플 환율 계산기 · iphone 02 · 여행 쇼핑</title><style>*{box-sizing:border-box}html,body{margin:0;padding:0}
+<!DOCTYPE html><html lang="ko"><meta charset="utf-8"><title>심플 환율 계산기 · iphone 02 · 계산기</title><style>*{box-sizing:border-box}html,body{margin:0;padding:0}
 body{font-family:"Apple SD Gothic Neo","Arial",sans-serif;color:#152e30;background:#f7f3e9;-webkit-font-smoothing:antialiased}
 .artboard{position:relative;width:1320px;height:2868px;overflow:hidden;background:#f7f3e9}
 .brand{position:absolute;left:93px;top:84px;display:flex;align-items:center;gap:20px;font-size:30px;font-weight:700;letter-spacing:-.4px}
@@ -12,7 +12,7 @@ body{font-family:"Apple SD Gothic Neo","Arial",sans-serif;color:#152e30;backgrou
 .note{position:absolute;left:67px;top:1500px;writing-mode:vertical-rl;letter-spacing:2.4px;font-size:24px;color:#6f7e75}
 .index-mark{position:absolute;right:93px;top:640px;width:24px;height:78px;border-top:4px solid #0a8f5a;border-bottom:4px solid #0a8f5a}
 .footer{position:absolute;left:0;right:0;bottom:49px;text-align:center;font-size:24px;color:#68746d;letter-spacing:-.2px}</style>
-<main class="artboard"><div class="brand"><img src="app-icon.png" alt="">심플 환율 계산기</div><div class="episode">02 · 여행 쇼핑</div>
-<h1 class="headline">합계도, 할인도.<br><em>계산하면서 환산.</em></h1><p class="subhead">두 물건에 20% 할인: (1,980 + 2,480) × 0.8</p><div class="note">SHOPPING / CALCULATION</div><div class="index-mark"></div>
+<main class="artboard"><div class="brand"><img src="app-icon.png" alt="">심플 환율 계산기</div><div class="episode">02 · 계산기</div>
+<h1 class="headline">계산하는 대로,<br><em>바로 환산.</em></h1><p class="subhead">어떤 계산식이든 결과를 다른 통화로 함께 보여 줘요.</p><div class="note">CALCULATOR / CONVERSION</div><div class="index-mark"></div>
 <div class="device"><img src="raw/iphone-02.png" alt="실제 iOS 앱 화면"></div>
 <div class="footer">실제 iOS 앱 화면 · 환산 금액은 촬영 당시 환율 기준</div></main></html>

diff --git a/store-assets/app-store-ko/ipad-02.html b/store-assets/app-store-ko/ipad-02.html
@@ -1,4 +1,4 @@
-<!DOCTYPE html><html lang="ko"><meta charset="utf-8"><title>심플 환율 계산기 · ipad 02 · 여행 쇼핑</title><style>*{box-sizing:border-box}html,body{margin:0;padding:0}
+<!DOCTYPE html><html lang="ko"><meta charset="utf-8"><title>심플 환율 계산기 · ipad 02 · 계산기</title><style>*{box-sizing:border-box}html,body{margin:0;padding:0}
 body{font-family:"Apple SD Gothic Neo","Arial",sans-serif;color:#152e30;background:#f7f3e9;-webkit-font-smoothing:antialiased}
 .artboard{position:relative;width:2064px;height:2752px;overflow:hidden;background:#f7f3e9}
 .brand{position:absolute;left:140px;top:104px;display:flex;align-items:center;gap:31px;font-size:40px;font-weight:700;letter-spacing:-.4px}
@@ -12,7 +12,7 @@ body{font-family:"Apple SD Gothic Neo","Arial",sans-serif;color:#152e30;backgrou
 .note{position:absolute;left:101px;top:1580px;writing-mode:vertical-rl;letter-spacing:2.4px;font-size:38px;color:#6f7e75}
 .index-mark{position:absolute;right:140px;top:760px;width:38px;height:122px;border-top:4px solid #0a8f5a;border-bottom:4px solid #0a8f5a}
 .footer{position:absolute;left:0;right:0;bottom:76px;text-align:center;font-size:30px;color:#68746d;letter-spacing:-.2px}</style>
-<main class="artboard"><div class="brand"><img src="app-icon.png" alt="">심플 환율 계산기</div><div class="episode">02 · 여행 쇼핑</div>
-<h1 class="headline">합계도, 할인도.<br><em>계산하면서 환산.</em></h1><p class="subhead">두 물건에 20% 할인: (1,980 + 2,480) × 0.8</p><div class="note">SHOPPING / CALCULATION</div><div class="index-mark"></div>
+<main class="artboard"><div class="brand"><img src="app-icon.png" alt="">심플 환율 계산기</div><div class="episode">02 · 계산기</div>
+<h1 class="headline">계산하는 대로,<br><em>바로 환산.</em></h1><p class="subhead">어떤 계산식이든 결과를 다른 통화로 함께 보여 줘요.</p><div class="note">CALCULATOR / CONVERSION</div><div class="index-mark"></div>
 <div class="device"><img src="raw/ipad-02.png" alt="실제 iOS 앱 화면"></div>
 <div class="footer">실제 iOS 앱 화면 · 환산 금액은 촬영 당시 환율 기준</div></main></html>

diff --git a/store-assets/app-store-en/iphone-02.html b/store-assets/app-store-en/iphone-02.html
@@ -1,4 +1,4 @@
-<!DOCTYPE html><html lang="en"><meta charset="utf-8"><title>Simple Currency Calculator · iphone 02 · Shopping</title><style>*{box-sizing:border-box}html,body{margin:0;padding:0}
+<!DOCTYPE html><html lang="en"><meta charset="utf-8"><title>Simple Currency Calculator · iphone 02 · Calculator</title><style>*{box-sizing:border-box}html,body{margin:0;padding:0}
 body{font-family:system-ui,"Helvetica Neue",Arial,sans-serif;color:#152e30;background:#f7f3e9;-webkit-font-smoothing:antialiased}
 .artboard{position:relative;width:1320px;height:2868px;overflow:hidden;background:#f7f3e9}
 .brand{position:absolute;left:93px;top:84px;display:flex;align-items:center;gap:20px;font-size:30px;font-weight:700;letter-spacing:-.4px}
@@ -12,7 +12,7 @@ body{font-family:system-ui,"Helvetica Neue",Arial,sans-serif;color:#152e30;backg
 .note{position:absolute;left:67px;top:1500px;writing-mode:vertical-rl;letter-spacing:2.4px;font-size:24px;color:#6f7e75}
 .index-mark{position:absolute;right:93px;top:640px;width:24px;height:78px;border-top:4px solid #0a8f5a;border-bottom:4px solid #0a8f5a}
 .footer{position:absolute;left:0;right:0;bottom:49px;text-align:center;font-size:24px;color:#68746d;letter-spacing:-.2px}</style>
-<main class="artboard"><div class="brand"><img src="app-icon.png" alt="">Simple Currency Calculator</div><div class="episode">02 · Shopping</div>
-<h1 class="headline">Add, discount,<br><em>convert at once.</em></h1><p class="subhead">Two items, 20% off: (1,980 + 2,480) × 0.8</p><div class="note">SHOPPING / CALCULATION</div><div class="index-mark"></div>
+<main class="artboard"><div class="brand"><img src="app-icon.png" alt="">Simple Currency Calculator</div><div class="episode">02 · Calculator</div>
+<h1 class="headline">A calculator<br><em>that converts.</em></h1><p class="subhead">Type any calculation and see it in another currency.</p><div class="note">CALCULATOR / CONVERSION</div><div class="index-mark"></div>
 <div class="device"><img src="raw/iphone-02.png" alt="Real iOS app screen"></div>
 <div class="footer">Real iOS app screens · Converted amounts use the rates at the time of capture</div></main></html>
